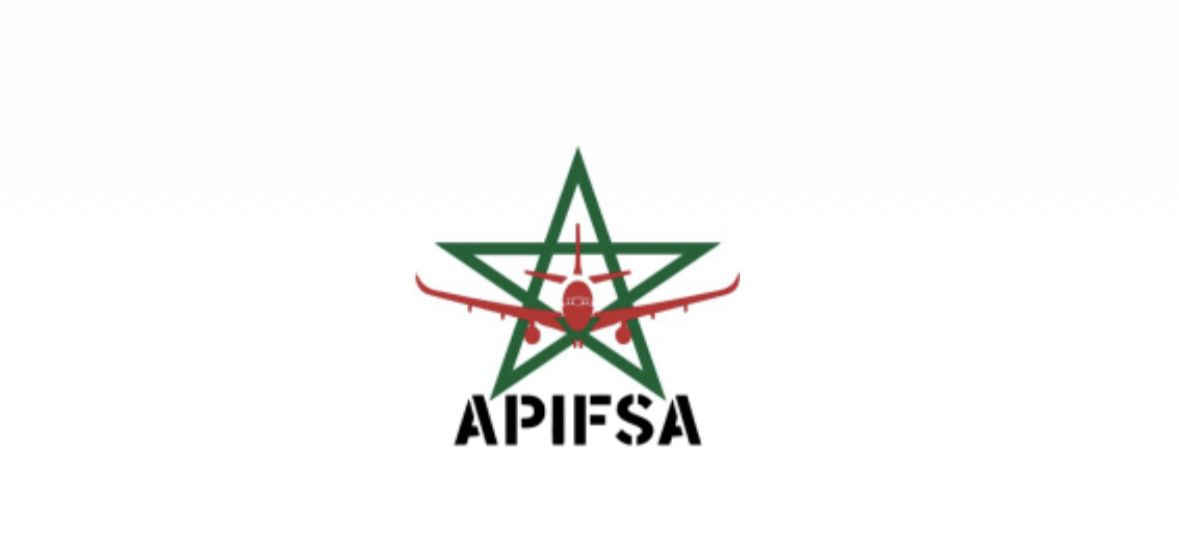
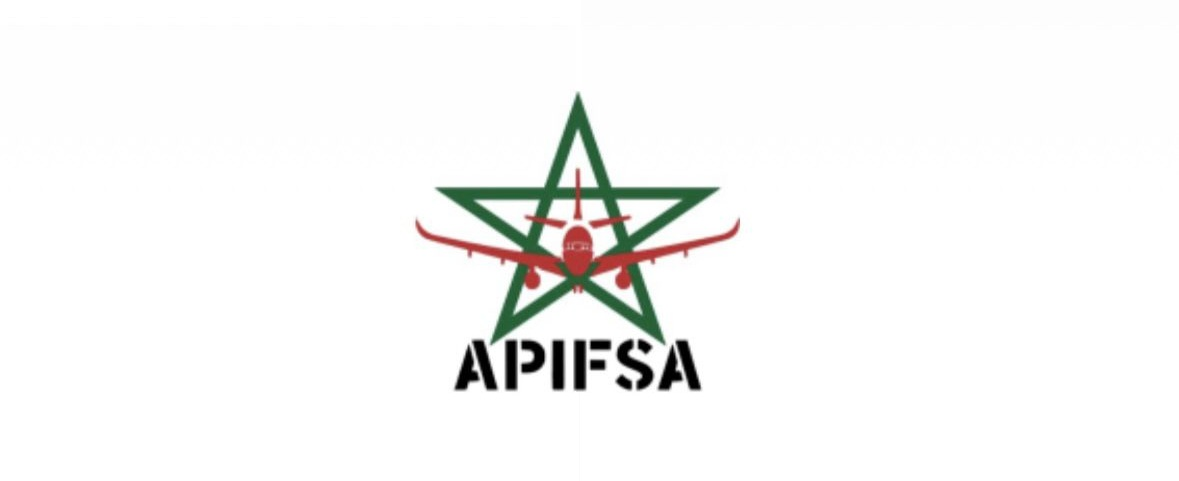
Update APIFSA sidebar image

Changed region(s): [[0.3359, 0.1871, 0.6412, 0.842]]

diff --git a/src/app/components/SidebarV2.tsx b/src/app/components/SidebarV2.tsx
@@ -39,9 +39,9 @@ export function SidebarV2({ currentPage, onNavigate }: SidebarV2Props) {
       {/* Logo / Brand */}
       <div className="p-6 border-b border-white/10">
         <div className="flex items-center justify-center gap-3 mb-1">
-            <h1 className="text-white text-lg tracking-widest uppercase" style={{ fontFamily: 'Georgia, serif', fontWeight: 700, letterSpacing: '0.12em' }}>
-              <img src="/APIFSA.jpeg" alt="APIFSA Logo" className="w-8 h-8 rounded-full" style={{ objectFit: 'cover' }} />
-            </h1>
+
+              <img src="/APIFSA.jpeg" alt="APIFSA Logo" id='apifsa' style={{ objectFit: 'cover' }} />
+
 
         </div>
         <div className="mt-4 h-px bg-gradient-to-r from-transparent via-white/20 to-transparent" />

diff --git a/src/styles/index.css b/src/styles/index.css
@@ -1,3 +1,12 @@
 @import './fonts.css';
 @import './tailwind.css';
 @import './theme.css';
+
+
+#apifsa {
+    width: 100%;
+    height: 100px;
+    object-fit: cover;
+    border-radius: 8px;
+    background-position: center;
+}
